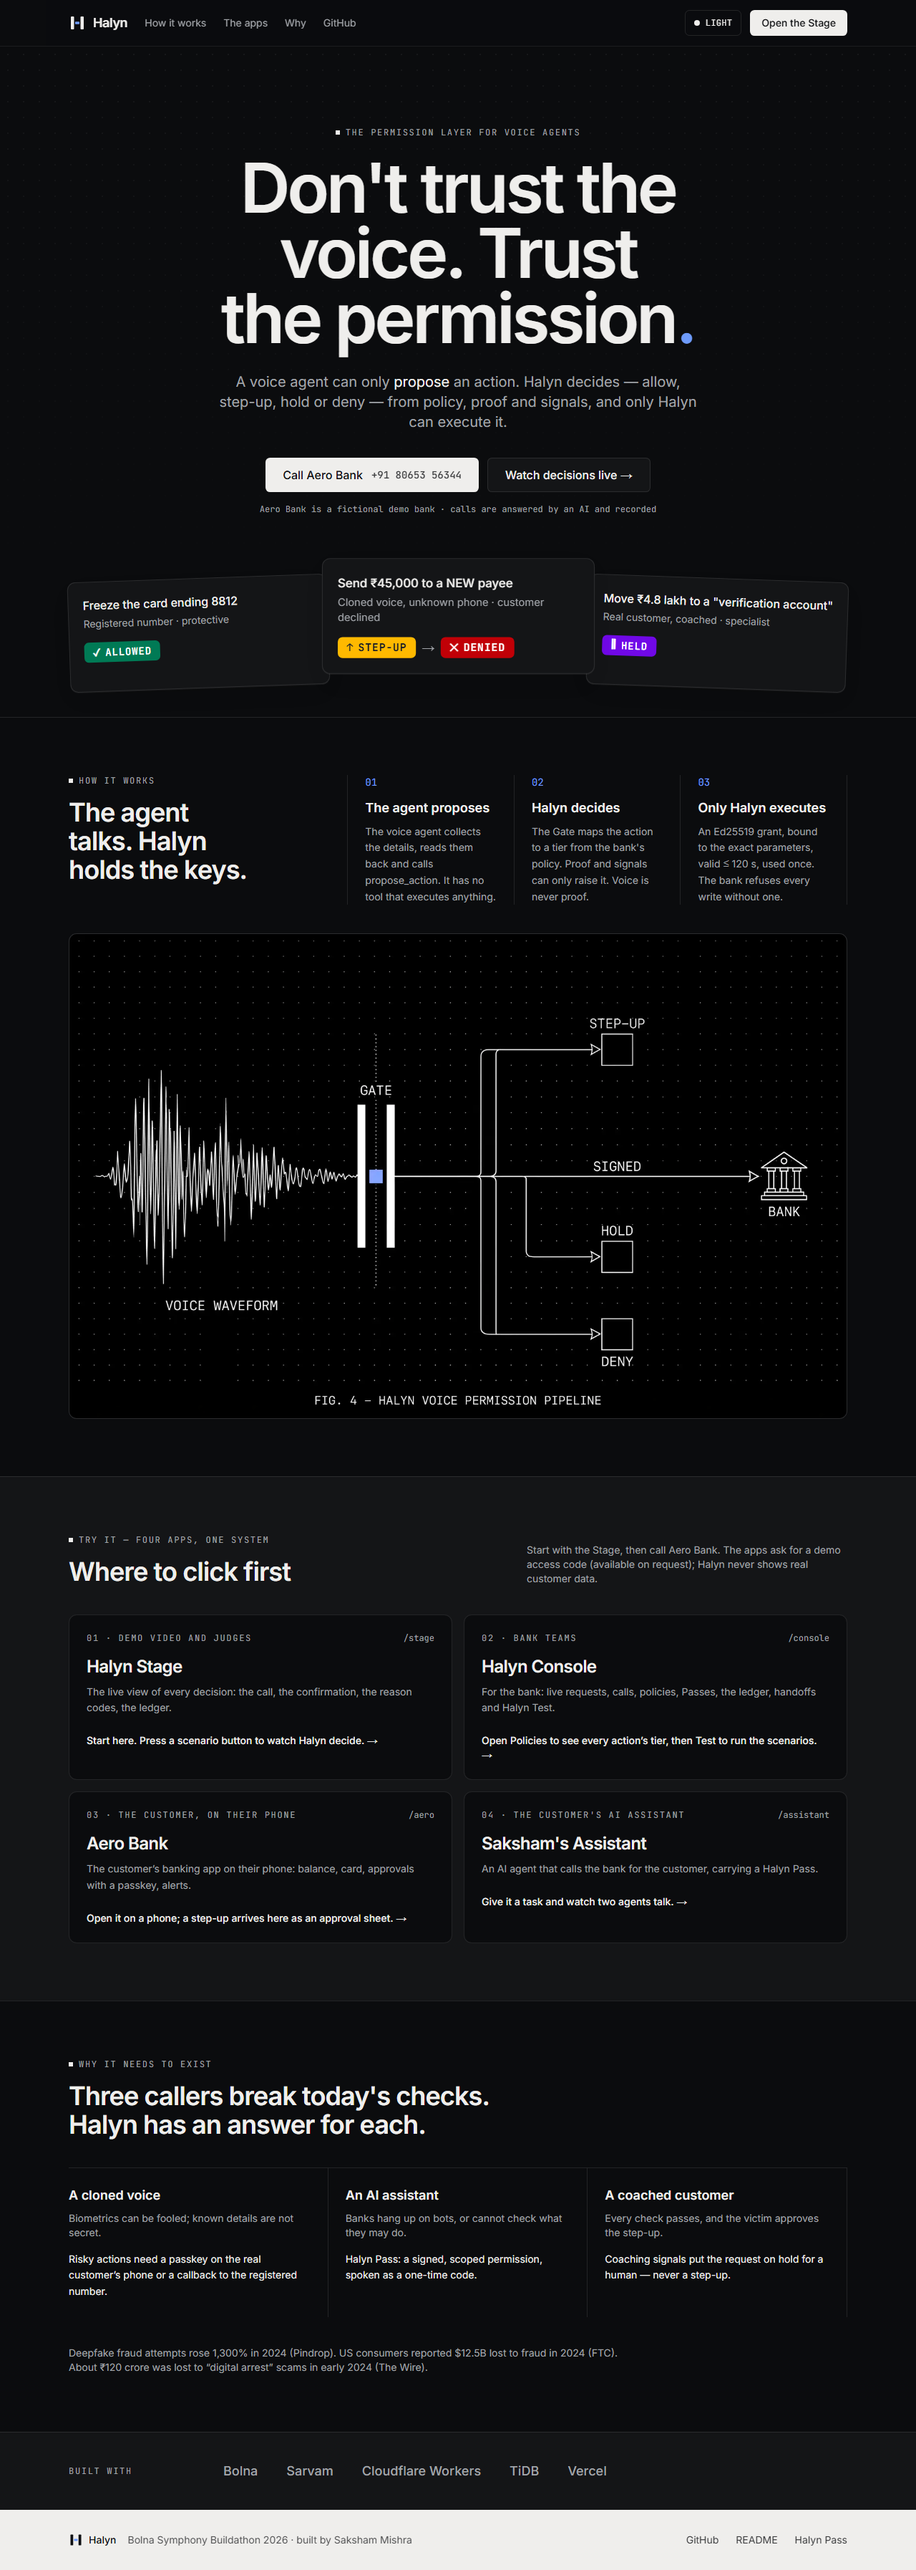
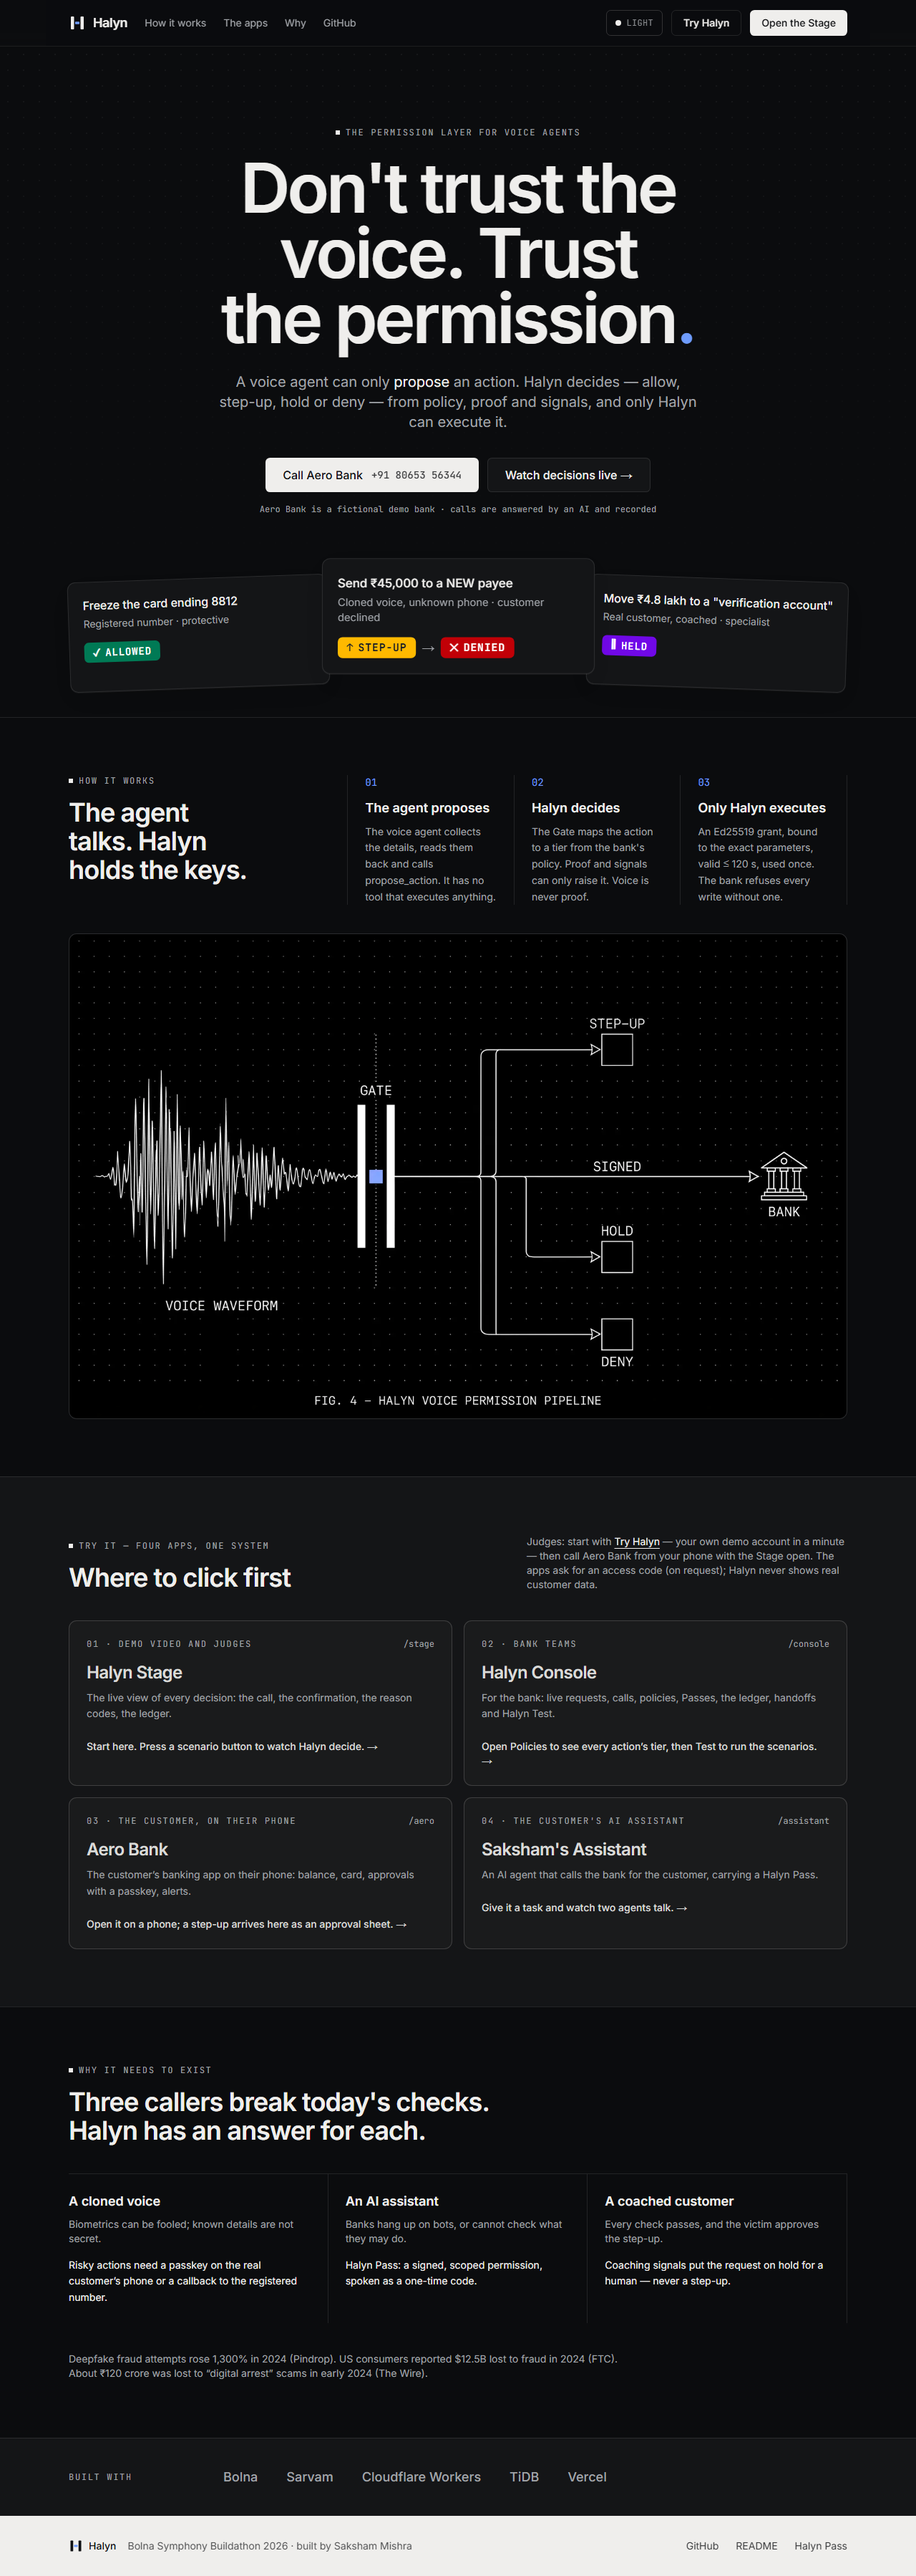
feat(web): 'Try Halyn' in the landing top bar (next to Open the Stage, visible on phones) → /try; e2e for the sign-up
The landing's 'where to click first' note points judges at Try Halyn. e2e: the button leads to /try on a phone,
a sign-up sends code + name + E.164 number and lands in the Aero app as the judge, a wrong code shows the error.
README app table, UI.md and JUDGES.md updated; landing screenshots re-captured.

diff --git a/apps/web/e2e/try.spec.ts b/apps/web/e2e/try.spec.ts
@@ -1,0 +1,67 @@
+import { expect, test } from '@playwright/test';
+import { json, mockApi, mockHub, screenshotPath } from './helpers';
+import { aeroHome, sessionBody } from '../src/test/fixtures';
+
+// Judges (pitch deck slide 13, docs/JUDGES.md): the landing page's "Try Halyn" opens /try; the sign-up sends the
+// code, name and an E.164 number, and the Aero app then signs in as the judge's own customer.
+
+test.use({ viewport: { width: 390, height: 844 } });
+
+const JUDGE_ID = 'cus_judge_01M69G82SRK7XCRGZE2JT44HSS';
+
+test('"Try Halyn" on the landing page leads to the sign-up, even on a phone', async ({ page }) => {
+  await page.goto('/');
+  const cta = page.getByRole('link', { name: 'Try Halyn' }).first();
+  await expect(cta).toBeVisible();
+  await expect(cta).toHaveAttribute('href', '/try');
+  await cta.click();
+  await expect(page.getByRole('heading', { level: 1 })).toHaveText('Try Halyn on your own phone');
+});
+
+test('a judge signs up and lands in the Aero app as their own customer', async ({ page }) => {
+  let signup: unknown = null;
+  let sessionFor: unknown = null;
+  await mockApi(page, {
+    'POST /web/judges/signup': (route, body) => {
+      signup = body;
+      return json(route, { ...sessionBody(), customer_id: JUDGE_ID });
+    },
+    'POST /web/session': (route, body) => {
+      sessionFor = body;
+      return json(route, { ...sessionBody(), customer_id: JUDGE_ID });
+    },
+    'GET /web/aero/home': (route) => json(route, aeroHome()),
+  });
+  await mockHub(page);
+  await page.goto('/try');
+  await page.getByLabel('Access code').fill('HALYN-JUDGE-TEST');
+  await page.getByLabel(/Your name/).fill('Asha Rao');
+  await page.getByLabel(/Your mobile number/).fill(['90000', '00077'].join(' '));
+  await page.screenshot({ path: screenshotPath('try'), fullPage: true });
+  await page.getByRole('button', { name: 'Create my Aero Bank account' }).click();
+  await expect(page).toHaveURL(/\/aero$/);
+  await expect(page.getByTestId('balance')).toBeVisible();
+  expect(signup).toEqual({ code: 'HALYN-JUDGE-TEST', name: 'Asha Rao', phone: `+91${'90000' + '00077'}` });
+  // The cached judge session is used; a fresh sign-in (if any) asks for the judge's own customer.
+  if (sessionFor !== null) expect(sessionFor).toEqual({ kind: 'customer', customer_id: JUDGE_ID });
+});
+
+test('a wrong code says so and stays on the form', async ({ page }) => {
+  await mockApi(page, {
+    'POST /web/judges/signup': (route) =>
+      json(
+        route,
+        { error: { code: 'E_UNAUTHORIZED', message: 'That judge access code was not accepted' } },
+        401,
+      ),
+  });
+  await page.goto('/try');
+  await page.getByLabel('Access code').fill('not-the-code');
+  await page.getByLabel(/Your name/).fill('Asha Rao');
+  await page.getByLabel(/Your mobile number/).fill(['90000', '00077'].join(''));
+  await page.getByRole('button', { name: 'Create my Aero Bank account' }).click();
+  await expect(page.getByRole('alert').filter({ hasText: 'access code' })).toHaveText(
+    'That access code was not accepted.',
+  );
+  await expect(page).toHaveURL(/\/try$/);
+});

diff --git a/apps/web/src/app/page.tsx b/apps/web/src/app/page.tsx
@@ -126,6 +126,13 @@ export default function HomePage() {
           </nav>
           <div className="ml-auto flex items-center gap-3">
             <ThemeToggle />
+            {/* Judges sign up as their own demo customer and call Aero from their phone (docs/JUDGES.md). */}
+            <Link
+              href="/try"
+              className="border-border hover:bg-muted inline-flex h-9 items-center rounded-md border px-4 text-sm font-medium"
+            >
+              Try Halyn
+            </Link>
             <Link
               href="/stage"
               className="bg-primary text-primary-foreground hidden h-9 items-center rounded-md px-4 text-sm font-medium sm:inline-flex"
@@ -242,8 +249,12 @@ export default function HomePage() {
                 </h2>
               </div>
               <p className="text-muted-foreground max-w-md text-sm">
-                Start with the Stage, then call Aero Bank. The apps ask for a demo access code (available on
-                request); Halyn never shows real customer data.
+                Judges: start with{' '}
+                <Link href="/try" className="text-foreground underline underline-offset-4">
+                  Try Halyn
+                </Link>{' '}
+                — your own demo account in a minute — then call Aero Bank from your phone with the Stage open.
+                The apps ask for an access code (on request); Halyn never shows real customer data.
               </p>
             </div>
             <ol className="mt-10 grid gap-4 md:grid-cols-2">

diff --git a/README.md b/README.md
@@ -53,7 +53,8 @@ design (`S_UNUSUAL_HOUR`), so even a card freeze asks you to confirm.
 
 | App | Link | Who it's for | What to look at |
 |---|---|---|---|
-| Landing | [halyn-voice.vercel.app](https://halyn-voice.vercel.app) | Everyone | What Halyn is and where to click first |
+| Landing | [halyn-voice.vercel.app](https://halyn-voice.vercel.app) | Everyone | What Halyn is and where to click first; **Try Halyn** and **Open the Stage** in the top bar |
+| **Try Halyn** | [/try](https://halyn-voice.vercel.app/try) | Judges | Sign up with the access code, your name and your number → your own demo customer; then call Aero from that phone ([guide](docs/JUDGES.md)) |
 | **Halyn Stage** | [/stage](https://halyn-voice.vercel.app/stage) | Judges, the demo video | Scenario buttons 1–4, the live call, the decision with its reason codes, the ledger. [/stage?recording=1](https://halyn-voice.vercel.app/stage?recording=1) is the clean recording canvas; [/stage/soundboard](https://halyn-voice.vercel.app/stage/soundboard) plays the labelled voice-clone clips |
 | **Halyn Console** | [/console](https://halyn-voice.vercel.app/console) | The bank's teams | [Policies](https://halyn-voice.vercel.app/console/policies) (every action's tier), [Test](https://halyn-voice.vercel.app/console/test) (run all scenarios, permission map), [Ledger](https://halyn-voice.vercel.app/console/ledger), [Handoffs](https://halyn-voice.vercel.app/console/handoffs), [Passes](https://halyn-voice.vercel.app/console/passes), [Calls](https://halyn-voice.vercel.app/console/calls), [Signals](https://halyn-voice.vercel.app/console/signals), [Integrations](https://halyn-voice.vercel.app/console/integrations) |
 | **Aero Bank app** | [/aero](https://halyn-voice.vercel.app/aero) | The customer, on their phone | Balance, card, loan; approval sheets with a passkey; alerts; Assistant access (issue or revoke a Pass); "Call Aero" in the browser for the US twin |

diff --git a/docs/UI.md b/docs/UI.md
@@ -4,6 +4,8 @@ One Next.js project (`apps/web`) with four route groups. All live data via the H
 
 | App | Route | For | Must show |
 |---|---|---|---|
+| Landing | `/` | Everyone | What Halyn is, the four apps, "Call Aero Bank"; top bar: **Try Halyn** (`/try`, visible on phones too) and **Open the Stage** |
+| Try Halyn | `/try` | Judges | Access code, name, mobile number (10 Indian digits get +91) → `POST /web/judges/signup` → the Aero app as their own customer; what to try next; privacy line (hash + last 4, never called). Spec: docs/JUDGES.md |
 | Halyn Stage | `/stage` | Video, judges | Scenario buttons (1–4, more, region IN/US), Aero app panel, live call transcript, Confirm panel, Halyn decision (request, tier, signals, outcome badge), ledger lines + "chain verified", event timeline. Dark mode. Never scrolls during a scenario |
 | Halyn Console | `/console/*` | Bank teams | Live, Calls, Policies, Passes, Test, Signals, Ledger, Handoffs, Integrations |
 | Aero Bank app | `/aero/*` | Customer on phone | Home (balance, activity, card, loan), approval sheet (exact action, Approve with passkey / Decline, "Aero will never ask you to move money to a safe account"), alerts, Assistant access (issue/revoke Pass), Call Aero (web call), Hindi/English toggle |

diff --git a/docs/JUDGES.md b/docs/JUDGES.md
@@ -17,7 +17,8 @@ app. You talk to an AI and calls are recorded (the agent says so in its greeting
 ---
 
 ## 1 · Become a customer (2 minutes)
-1. On your **phone**, open **https://halyn-voice.vercel.app/try**.
+1. On your **phone**, open **https://halyn-voice.vercel.app/try** — or tap **Try Halyn** in the top bar of
+   [halyn-voice.vercel.app](https://halyn-voice.vercel.app).
 2. Enter the **access code**, **your name** (the agent greets you by it) and **your mobile number** — the phone you
    will call from. Indian numbers: 10 digits; others: `+` and the country code.
 3. Tap **Create my Aero Bank account**. You land in the **Aero app** as yourself, with your own copy of the demo
